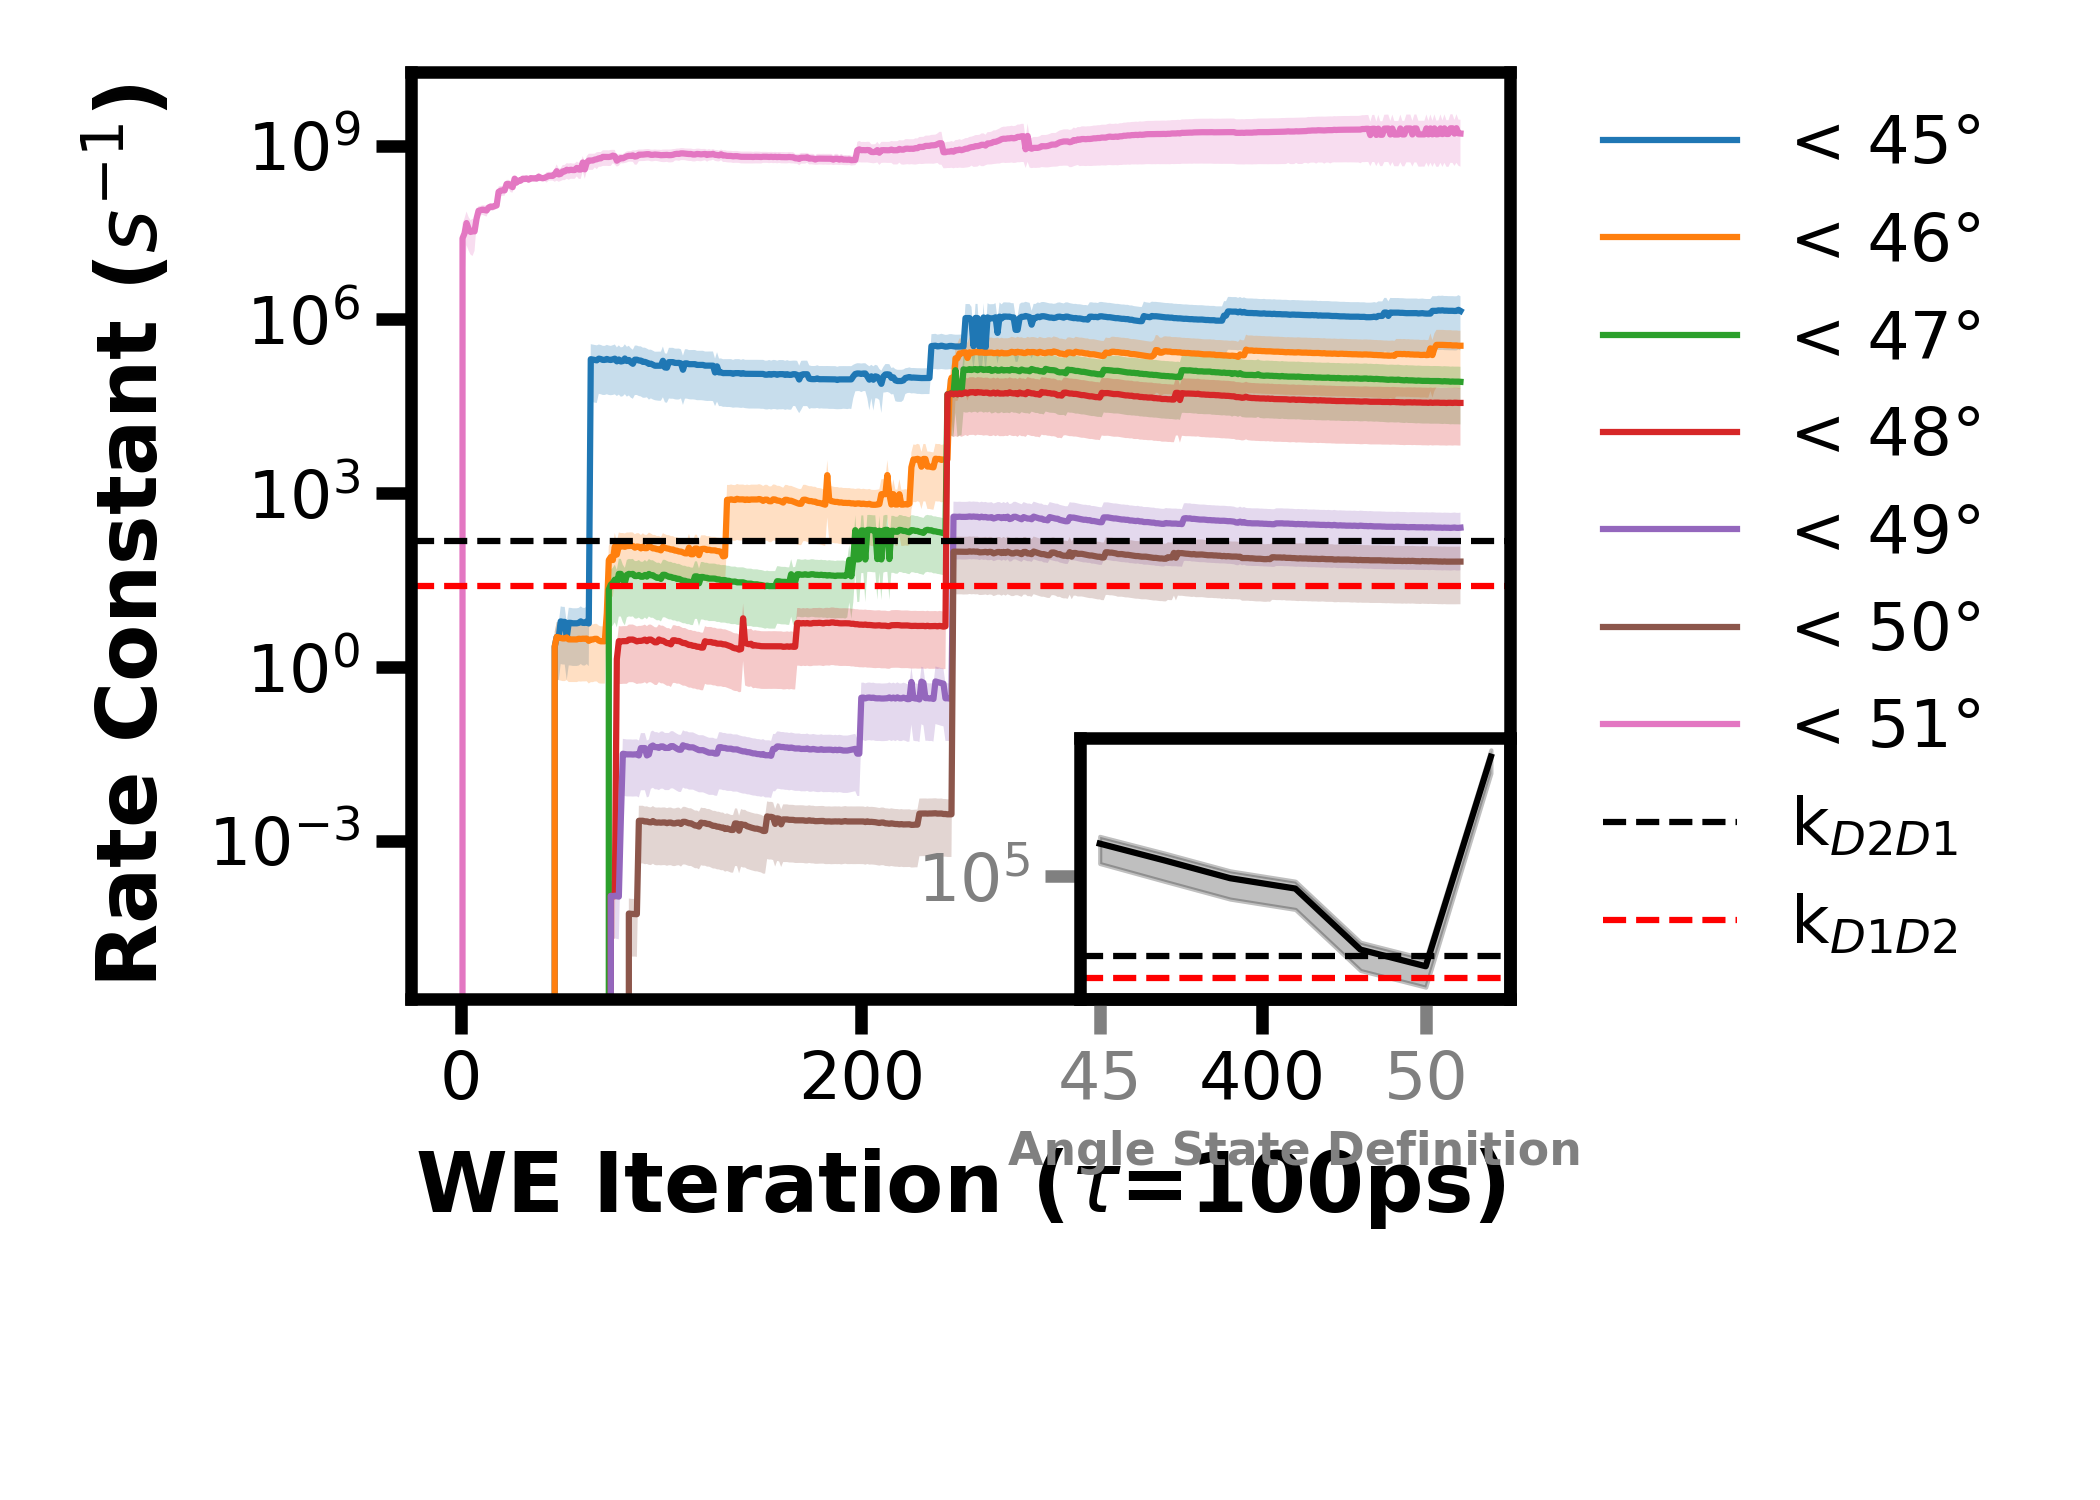
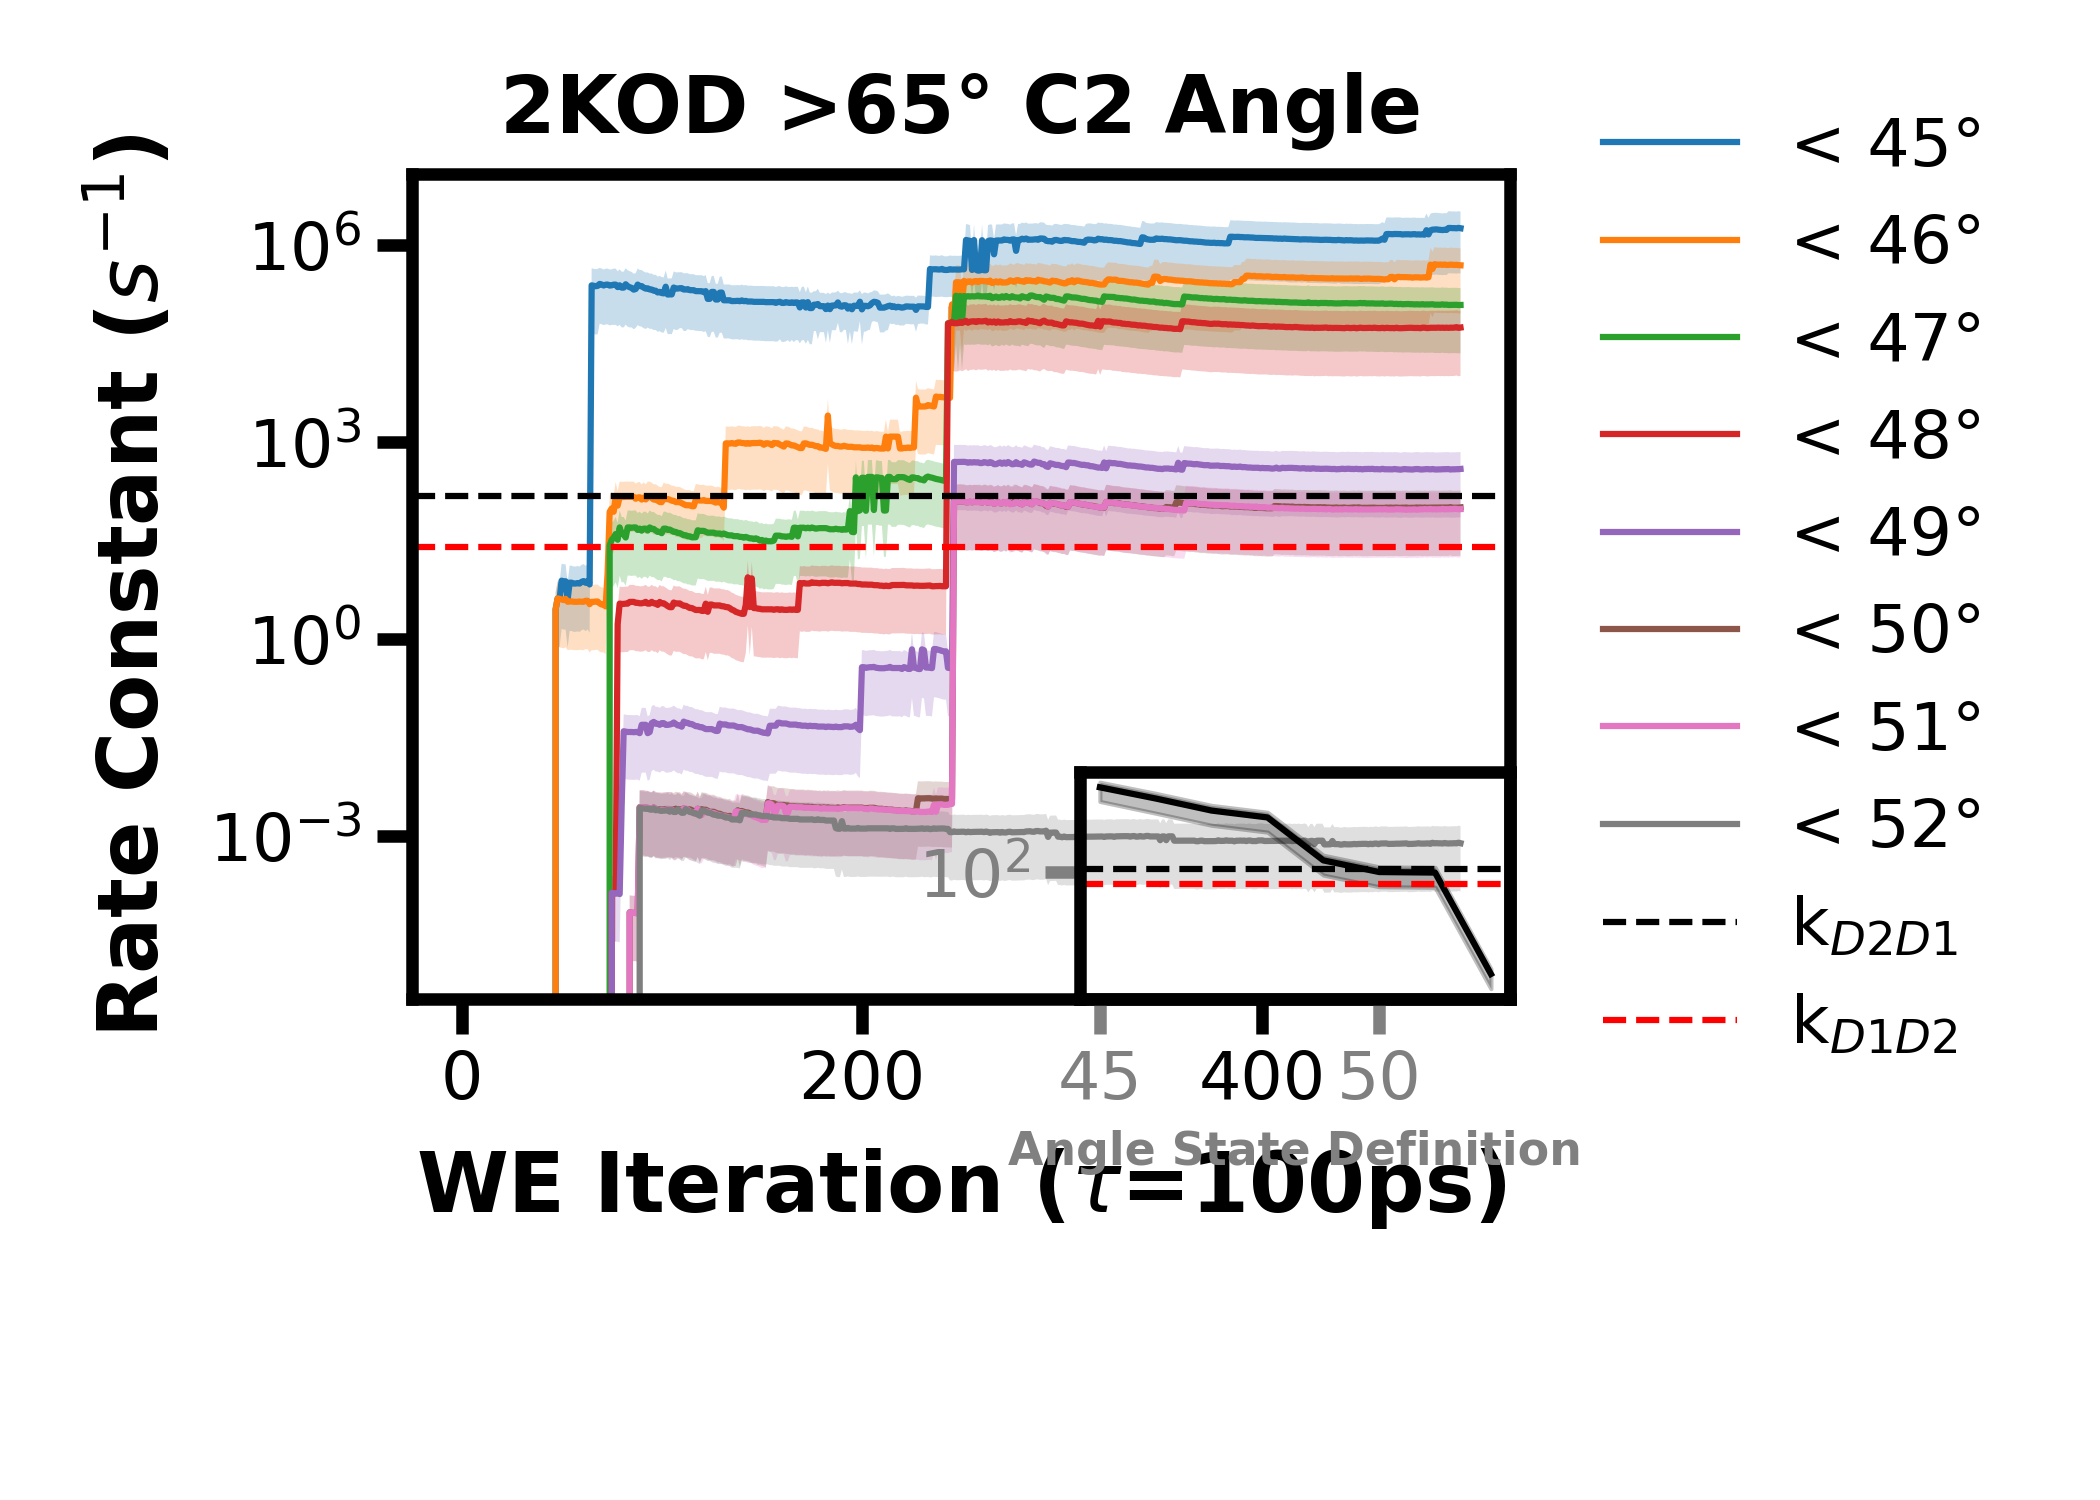
made some plots of multiple c2 definitions

diff --git a/plot_direct_h5.py b/plot_direct_h5.py
@@ -237,7 +237,7 @@ class Kinetics:
             plt.savefig(f"figures/{ogscheme}_{self.prefix}_{ver}multi_state_rates.png", 
                         dpi=300, transparent=True)
 
-    def plot_std_error_rate_reps(self, iterations=500, reps=3, def_subplot=None):
+    def plot_std_error_rate_reps(self, iterations=500, reps=3, def_subplot=None, title=None):
         """
         ### get rates with std errors for multiple state definitions
         Make a plot of multiple replicates and std err for each tstate def
@@ -313,6 +313,8 @@ class Kinetics:
 
         self.ax.set_ylabel("Rate Constant ($s^{-1}$)")
         self.ax.set_xlabel(r"WE Iteration ($\tau$=100ps)")
+        if title:
+            self.ax.set_title(title)
 
         self.fig.tight_layout()
         if self.savefig:
@@ -402,8 +404,13 @@ class Kinetics:
 ######################################
 #k = Kinetics(4, 13, scheme="2kod_oa_lt15oa", prefix="1d_", state=1, savefig=True)
 #k.plot_multi_def_rates(ver="v00")
-k = Kinetics(45, 52, scheme="2kod_oa_65c2", prefix="2d_", state=1, savefig=True)
-k.plot_std_error_rate_reps(reps=3, def_subplot=326)
+# k = Kinetics(45, 53, scheme="2kod_oa_65c2", prefix="2d_", state=1, savefig=True)
+# k.plot_std_error_rate_reps(reps=3, def_subplot=326, title="2KOD >65° C2 Angle")
+
+k = Kinetics(65, 71, scheme="2kod_oa_65c2", prefix="2d_", state=1, savefig=True)
+k.plot_std_error_rate_reps(reps=3, def_subplot=326, title="2KOD >65° C2 Angle")
 
 plt.tight_layout()
 plt.show()
+
+# TODO: plot the 51° OA and multiple C2 angles
